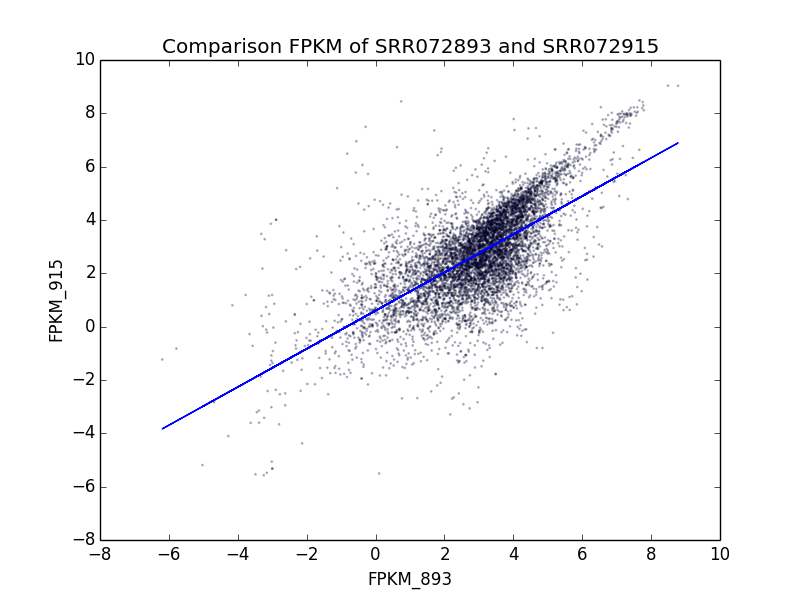
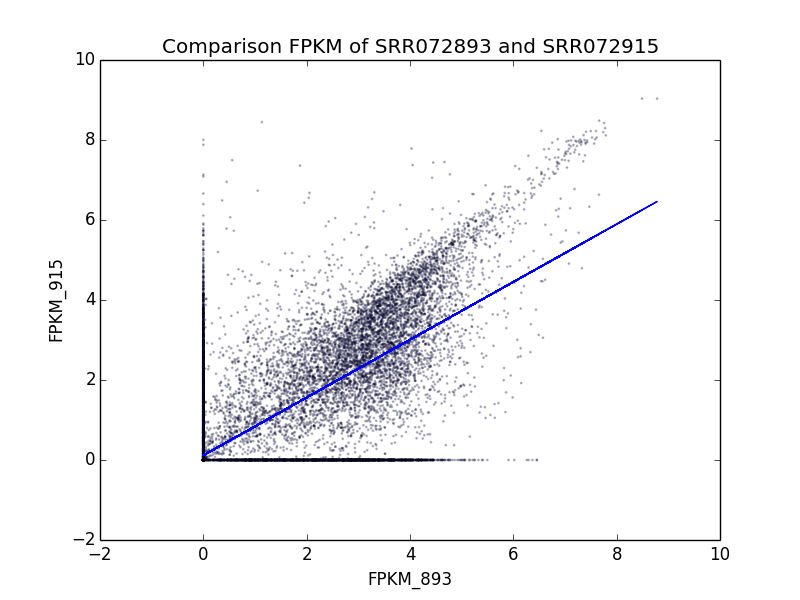
better comments and fixed the 0 issue by adding 1

diff --git a/day4-lunch/01-scatterplot.py b/day4-lunch/01-scatterplot.py
@@ -15,25 +15,33 @@ seq1 = pd.read_csv(sys.argv[1], sep = "\t")
 
 seq2 = pd.read_csv(sys.argv[2], sep = "\t")
 
+#take the two columns from both sequences
 coi = ["t_name", "FPKM"]
 seq1 = seq1[coi]
 seq2 = seq2[coi]
 
 #seq1_dict = seq1.set_index("t_name")["FPKM"].to_dict()
-
 #print seq1_dict
-merged = pd.merge(seq1,seq2, on=["t_name"], how="inner")
-merged = merged[~(merged == 0).any(axis=1)]
-merged["FPKM_x"]=np.log(merged["FPKM_x"])
-merged["FPKM_y"]=np.log(merged["FPKM_y"])
 
-print merged.head()
+#merge both sequences when they share the same t_name column
+merged = pd.merge(seq1,seq2, on=["t_name"], how="inner")
+
+
+#get rid of the columns with just 0.000
+#merged = merged[~(merged == 0).any(axis=1)]
+#get the log on those FPKM values, as you cant get the log(0)
+merged["FPKM_x"]=np.log(merged["FPKM_x"]+1)
+merged["FPKM_y"]=np.log(merged["FPKM_y"]+1)
+
+#print merged.head()
 
 plt.figure()
+#get the scatter plot for the merged, log adjusted file, make transparency (alpha) low and make the dots smaller (s)
 plt.scatter(merged["FPKM_x"], merged["FPKM_y"], alpha = 0.25, s=1)
 plt.xlabel("FPKM_893")                 
 plt.ylabel("FPKM_915")
 plt.title("Comparison FPKM of SRR072893 and SRR072915")
+#get the line fit
 fitty = np.polyfit(x=merged["FPKM_x"], y=merged["FPKM_y"], deg=1)
 plt.plot(merged["FPKM_x"], fitty[0]*merged["FPKM_x"] + fitty[1], "-")
 plt.savefig(sys.argv[3] + ".png")
